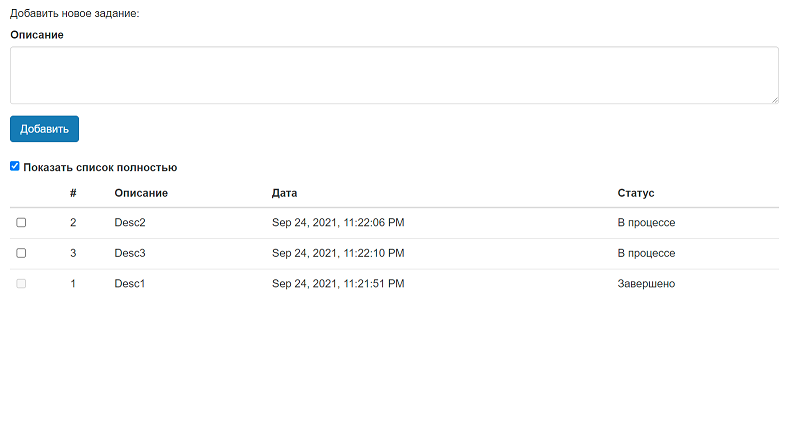
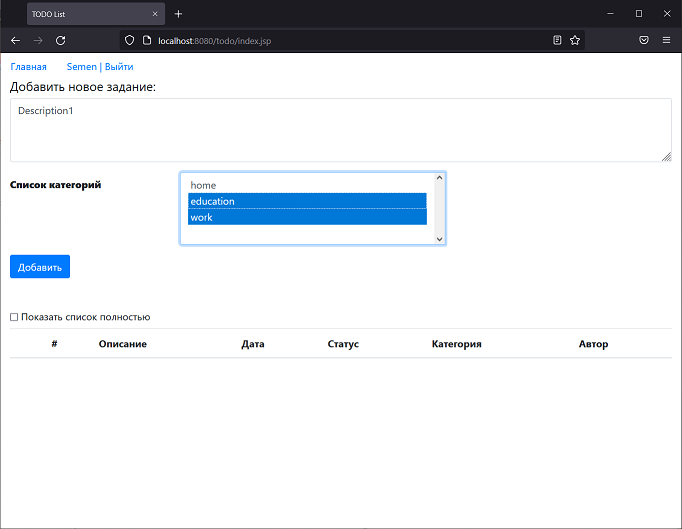
4. Категории в TODO List [#331991 #212877]

diff --git a/README.md b/README.md
@@ -1,7 +1,15 @@
 [![Build Status](https://app.travis-ci.com/ikioresko/job4j_todo.svg?branch=master)](https://app.travis-ci.com/ikioresko/job4j_todo)
 
-This project is simple view of TODO list app.
-The app has one page with a to-do list. Users can add some task and mark completed tasks.
+This project is a simple view of TODO list app.
+User can do register or login to use the app "TO-DO List".
+The app has page with a to-do list, login page and register page.
+Users can add some task and select one or more categories.
+Users can mark completed tasks. Completed tasks are hidden.
+To see completed tasks, click Show full list.
+
+The project uses the MVC pattern and log4j logging.
+Hibernate 5.4.15.Final is used to work with PostgreSQL.
+For stylesheet uses bootstrap 4.4.1
 
 ![alt text](https://github.com/ikioresko/job4j_todo/blob/master/images/1.png)
 ![alt text](https://github.com/ikioresko/job4j_todo/blob/master/images/2.png)
@@ -9,3 +17,4 @@ The app has one page with a to-do list. Users can add some task and mark complet
 ![alt text](https://github.com/ikioresko/job4j_todo/blob/master/images/4.png)
 ![alt text](https://github.com/ikioresko/job4j_todo/blob/master/images/5.png)
 ![alt text](https://github.com/ikioresko/job4j_todo/blob/master/images/6.png)
+![alt text](https://github.com/ikioresko/job4j_todo/blob/master/images/7.png)
